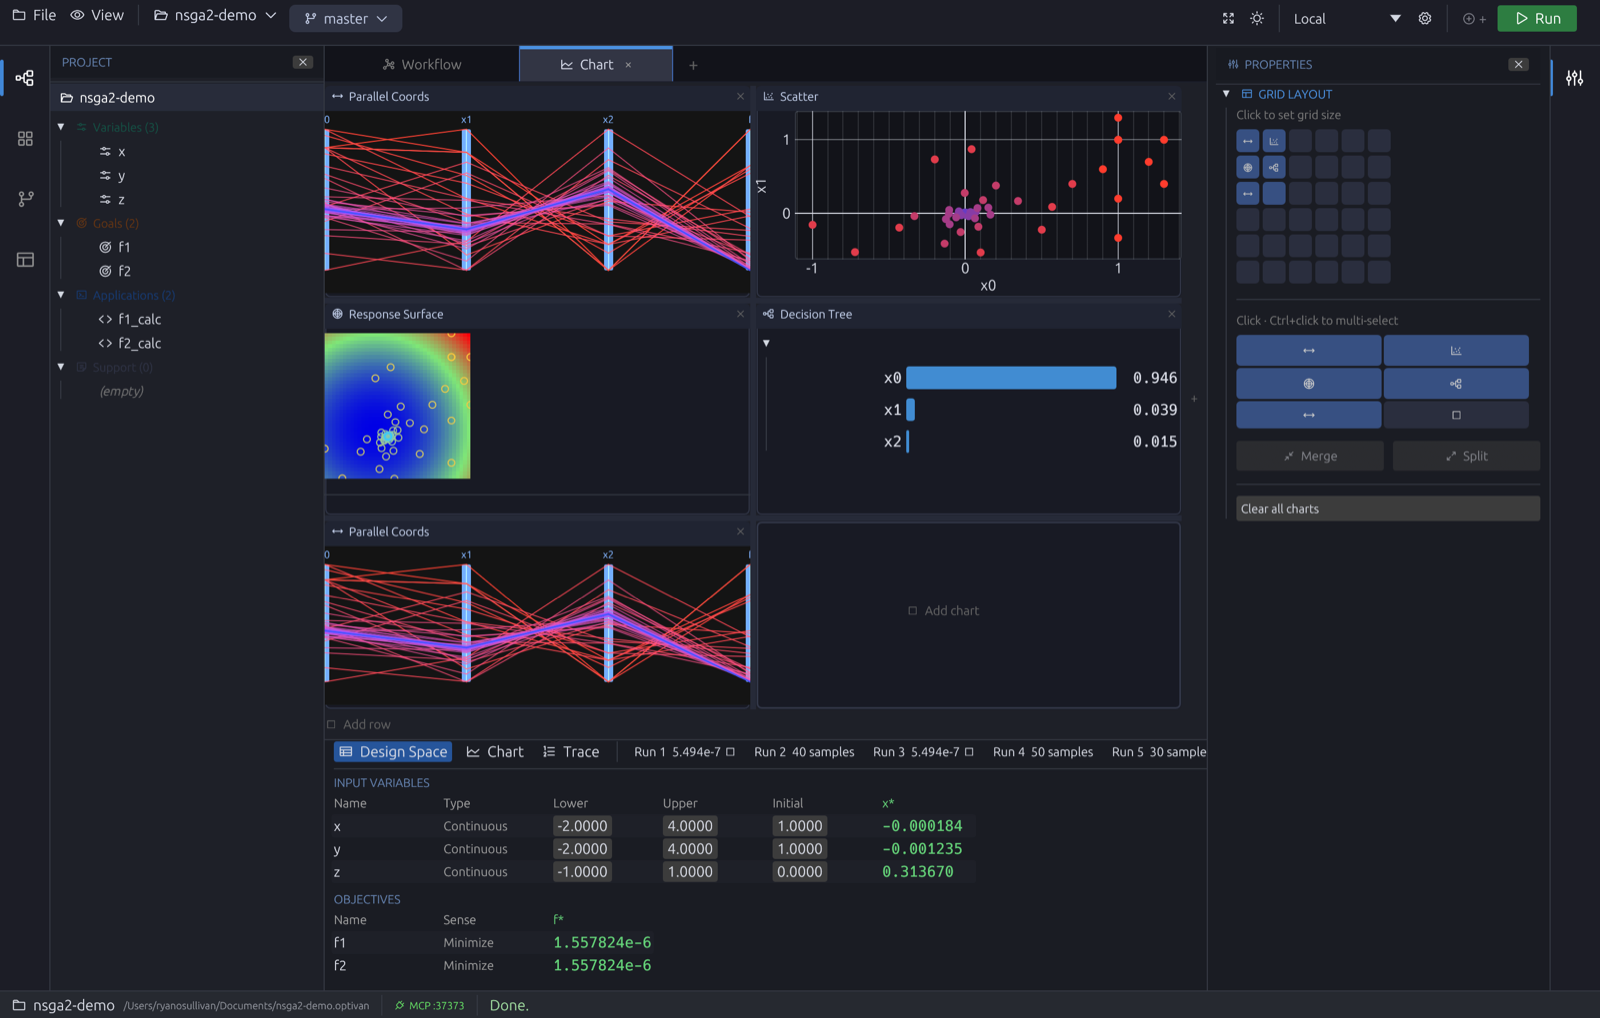
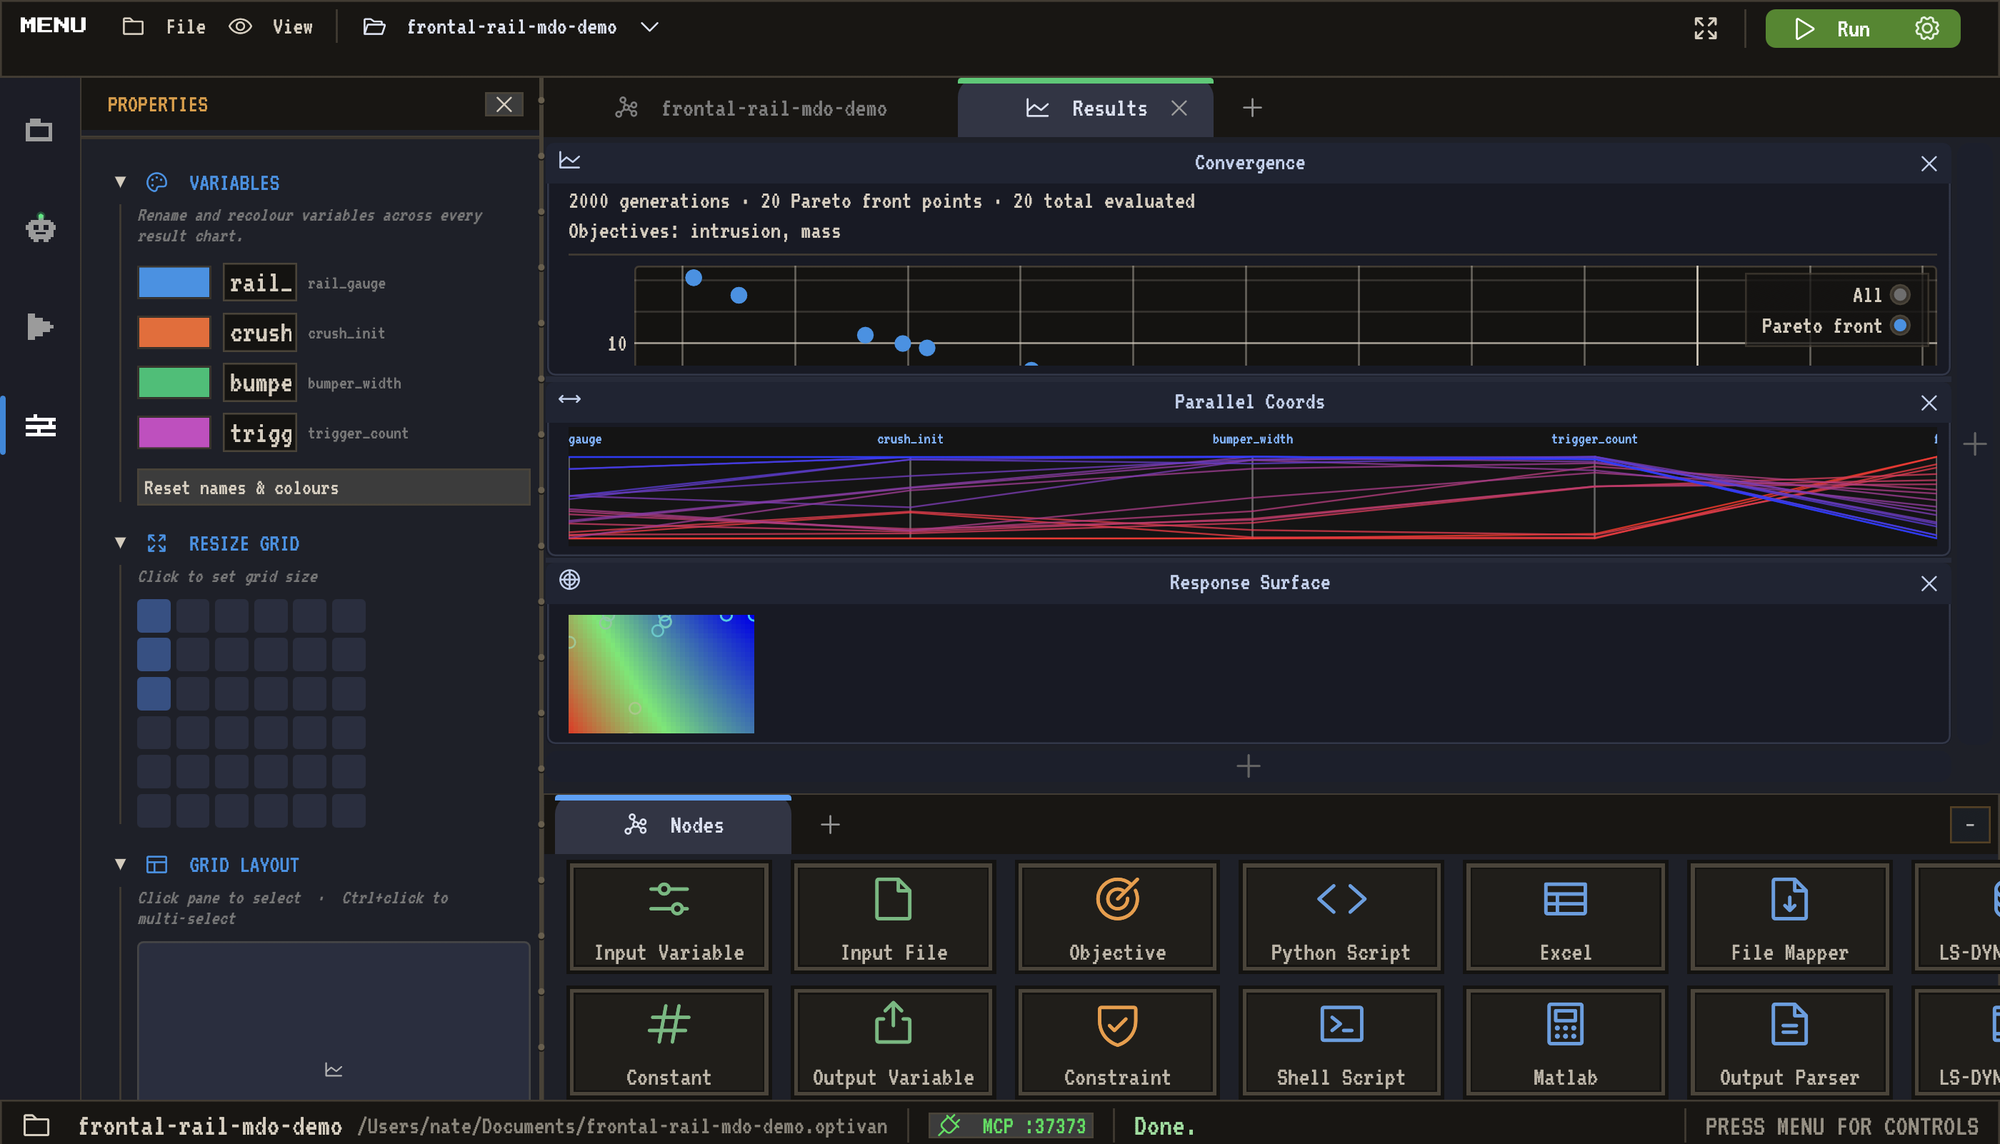
Deploy: agent-driven hero with Optivan globe + animated app loop, full-app screenshots

diff --git a/index.html b/index.html
@@ -26,8 +26,8 @@
       href="https://fonts.googleapis.com/css2?family=JetBrains+Mono:wght@400;500;700&family=Space+Grotesk:wght@400;500;600;700&display=swap"
       rel="stylesheet"
     />
-    <script type="module" crossorigin src="./assets/index-CSCSCUZo.js"></script>
-    <link rel="stylesheet" crossorigin href="./assets/index-BTGRAo-K.css">
+    <script type="module" crossorigin src="./assets/index-B0nn7DTy.js"></script>
+    <link rel="stylesheet" crossorigin href="./assets/index-CXPdNb7d.css">
   </head>
   <body>
     <div id="root"></div>

diff --git a/assets/index-CXPdNb7d.css b/assets/index-CXPdNb7d.css
@@ -1,0 +1,1 @@
+*,:before,:after{--tw-border-spacing-x: 0;--tw-border-spacing-y: 0;--tw-translate-x: 0;--tw-translate-y: 0;--tw-rotate: 0;--tw-skew-x: 0;--tw-skew-y: 0;--tw-scale-x: 1;--tw-scale-y: 1;--tw-pan-x: ;--tw-pan-y: ;--tw-pinch-zoom: ;--tw-scroll-snap-strictness: proximity;--tw-gradient-from-position: ;--tw-gradient-via-position: ;--tw-gradient-to-position: ;--tw-ordinal: ;--tw-slashed-zero: ;--tw-numeric-figure: ;--tw-numeric-spacing: ;--tw-numeric-fraction: ;--tw-ring-inset: ;--tw-ring-offset-width: 0px;--tw-ring-offset-color: #fff;--tw-ring-color: rgb(59 130 246 / .5);--tw-ring-offset-shadow: 0 0 #0000;--tw-ring-shadow: 0 0 #0000;--tw-shadow: 0 0 #0000;--tw-shadow-colored: 0 0 #0000;--tw-blur: ;--tw-brightness: ;--tw-contrast: ;--tw-grayscale: ;--tw-hue-rotate: ;--tw-invert: ;--tw-saturate: ;--tw-sepia: ;--tw-drop-shadow: ;--tw-backdrop-blur: ;--tw-backdrop-brightness: ;--tw-backdrop-contrast: ;--tw-backdrop-grayscale: ;--tw-backdrop-hue-rotate: ;--tw-backdrop-invert: ;--tw-backdrop-opacity: ;--tw-backdrop-saturate: ;--tw-backdrop-sepia: ;--tw-contain-size: ;--tw-contain-layout: ;--tw-contain-paint: ;--tw-contain-style: }::backdrop{--tw-border-spacing-x: 0;--tw-border-spacing-y: 0;--tw-translate-x: 0;--tw-translate-y: 0;--tw-rotate: 0;--tw-skew-x: 0;--tw-skew-y: 0;--tw-scale-x: 1;--tw-scale-y: 1;--tw-pan-x: ;--tw-pan-y: ;--tw-pinch-zoom: ;--tw-scroll-snap-strictness: proximity;--tw-gradient-from-position: ;--tw-gradient-via-position: ;--tw-gradient-to-position: ;--tw-ordinal: ;--tw-slashed-zero: ;--tw-numeric-figure: ;--tw-numeric-spacing: ;--tw-numeric-fraction: ;--tw-ring-inset: ;--tw-ring-offset-width: 0px;--tw-ring-offset-color: #fff;--tw-ring-color: rgb(59 130 246 / .5);--tw-ring-offset-shadow: 0 0 #0000;--tw-ring-shadow: 0 0 #0000;--tw-shadow: 0 0 #0000;--tw-shadow-colored: 0 0 #0000;--tw-blur: ;--tw-brightness: ;--tw-contrast: ;--tw-grayscale: ;--tw-hue-rotate: ;--tw-invert: ;--tw-saturate: ;--tw-sepia: ;--tw-drop-shadow: ;--tw-backdrop-blur: ;--tw-backdrop-brightness: ;--tw-backdrop-contrast: ;--tw-backdrop-grayscale: ;--tw-backdrop-hue-rotate: ;--tw-backdrop-invert: ;--tw-backdrop-opacity: ;--tw-backdrop-saturate: ;--tw-backdrop-sepia: ;--tw-contain-size: ;--tw-contain-layout: ;--tw-contain-paint: ;--tw-contain-style: }*,:before,:after{box-sizing:border-box;border-width:0;border-style:solid;border-color:#e5e7eb}:before,:after{--tw-content: ""}html,:host{line-height:1.5;-webkit-text-size-adjust:100%;-moz-tab-size:4;-o-tab-size:4;tab-size:4;font-family:Space Grotesk,ui-sans-serif,system-ui,sans-serif;font-feature-settings:normal;font-variation-settings:normal;-webkit-tap-highlight-color:transparent}body{margin:0;line-height:inherit}hr{height:0;color:inherit;border-top-width:1px}abbr:where([title]){-webkit-text-decoration:underline dotted;text-decoration:underline dotted}h1,h2,h3,h4,h5,h6{font-size:inherit;font-weight:inherit}a{color:inherit;text-decoration:inherit}b,strong{font-weight:bolder}code,kbd,samp,pre{font-family:JetBrains Mono,ui-monospace,SFMono-Regular,monospace;font-feature-settings:normal;font-variation-settings:normal;font-size:1em}small{font-size:80%}sub,sup{font-size:75%;line-height:0;position:relative;vertical-align:baseline}sub{bottom:-.25em}sup{top:-.5em}table{text-indent:0;border-color:inherit;border-collapse:collapse}button,input,optgroup,select,textarea{font-family:inherit;font-feature-settings:inherit;font-variation-settings:inherit;font-size:100%;font-weight:inherit;line-height:inherit;letter-spacing:inherit;color:inherit;margin:0;padding:0}button,select{text-transform:none}button,input:where([type=button]),input:where([type=reset]),input:where([type=submit]){-webkit-appearance:button;background-color:transparent;background-image:none}:-moz-focusring{outline:auto}:-moz-ui-invalid{box-shadow:none}progress{vertical-align:baseline}::-webkit-inner-spin-button,::-webkit-outer-spin-button{height:auto}[type=search]{-webkit-appearance:textfield;outline-offset:-2px}::-webkit-search-decoration{-webkit-appearance:none}::-webkit-file-upload-button{-webkit-appearance:button;font:inherit}summary{display:list-item}blockquote,dl,dd,h1,h2,h3,h4,h5,h6,hr,figure,p,pre{margin:0}fieldset{margin:0;padding:0}legend{padding:0}ol,ul,menu{list-style:none;margin:0;padding:0}dialog{padding:0}textarea{resize:vertical}input::-moz-placeholder,textarea::-moz-placeholder{opacity:1;color:#9ca3af}input::placeholder,textarea::placeholder{opacity:1;color:#9ca3af}button,[role=button]{cursor:pointer}:disabled{cursor:default}img,svg,video,canvas,audio,iframe,embed,object{display:block;vertical-align:middle}img,video{max-width:100%;height:auto}[hidden]:where(:not([hidden=until-found])){display:none}.label-mono{font-family:JetBrains Mono,ui-monospace,SFMono-Regular,monospace;font-size:11px;text-transform:uppercase;letter-spacing:.35em;color:#37e0d8cc}.panel-surface{border-radius:.5rem;border-width:1px;border-color:#1b2430cc;background-color:#0a0e1499;--tw-backdrop-blur: blur(4px);backdrop-filter:var(--tw-backdrop-blur) var(--tw-backdrop-brightness) var(--tw-backdrop-contrast) var(--tw-backdrop-grayscale) var(--tw-backdrop-hue-rotate) var(--tw-backdrop-invert) var(--tw-backdrop-opacity) var(--tw-backdrop-saturate) var(--tw-backdrop-sepia)}.pointer-events-none{pointer-events:none}.visible{visibility:visible}.collapse{visibility:collapse}.static{position:static}.fixed{position:fixed}.absolute{position:absolute}.relative{position:relative}.-inset-6{inset:-1.5rem}.inset-0{inset:0}.inset-\[12\%\]{inset:12%}.inset-x-0{left:0;right:0}.-bottom-24{bottom:-6rem}.-left-20{left:-5rem}.-right-16{right:-4rem}.-top-20{top:-5rem}.top-0{top:0}.top-9{top:2.25rem}.-z-10{z-index:-10}.z-30{z-index:30}.z-50{z-index:50}.mx-auto{margin-left:auto;margin-right:auto}.mb-12{margin-bottom:3rem}.mb-2{margin-bottom:.5rem}.mb-3{margin-bottom:.75rem}.mb-4{margin-bottom:1rem}.ml-3{margin-left:.75rem}.mt-1{margin-top:.25rem}.mt-12{margin-top:3rem}.mt-2{margin-top:.5rem}.mt-20{margin-top:5rem}.mt-3{margin-top:.75rem}.mt-4{margin-top:1rem}.mt-5{margin-top:1.25rem}.mt-6{margin-top:1.5rem}.mt-7{margin-top:1.75rem}.mt-9{margin-top:2.25rem}.block{display:block}.flex{display:flex}.inline-flex{display:inline-flex}.table{display:table}.grid{display:grid}.hidden{display:none}.aspect-square{aspect-ratio:1 / 1}.h-1\/3{height:33.333333%}.h-12{height:3rem}.h-2\.5{height:.625rem}.h-3{height:.75rem}.h-5{height:1.25rem}.h-6{height:1.5rem}.h-64{height:16rem}.h-full{height:100%}.h-px{height:1px}.min-h-screen{min-height:100vh}.w-12{width:3rem}.w-2\.5{width:.625rem}.w-20{width:5rem}.w-64{width:16rem}.w-\[230px\]{width:230px}.w-\[min\(46vw\,320px\)\]{width:min(46vw,320px)}.w-auto{width:auto}.w-full{width:100%}.max-w-2xl{max-width:42rem}.max-w-3xl{max-width:48rem}.max-w-7xl{max-width:80rem}.max-w-\[520px\]{max-width:520px}.max-w-\[640px\]{max-width:640px}.max-w-lg{max-width:32rem}.max-w-md{max-width:28rem}.max-w-xl{max-width:36rem}.max-w-xs{max-width:20rem}.flex-1{flex:1 1 0%}@keyframes scan{0%{transform:translateY(-100%)}to{transform:translateY(100%)}}.animate-scan{animation:scan 6s linear infinite}.resize{resize:both}.grid-cols-1{grid-template-columns:repeat(1,minmax(0,1fr))}.grid-cols-3{grid-template-columns:repeat(3,minmax(0,1fr))}.flex-col{flex-direction:column}.flex-wrap{flex-wrap:wrap}.place-items-center{place-items:center}.items-center{align-items:center}.justify-center{justify-content:center}.justify-between{justify-content:space-between}.gap-10{gap:2.5rem}.gap-2{gap:.5rem}.gap-24{gap:6rem}.gap-3{gap:.75rem}.gap-4{gap:1rem}.gap-6{gap:1.5rem}.gap-7{gap:1.75rem}.gap-px{gap:1px}.gap-x-8{-moz-column-gap:2rem;column-gap:2rem}.gap-y-3{row-gap:.75rem}.overflow-hidden{overflow:hidden}.whitespace-nowrap{white-space:nowrap}.rounded{border-radius:.25rem}.rounded-3xl{border-radius:1.5rem}.rounded-full{border-radius:9999px}.rounded-lg{border-radius:.5rem}.rounded-md{border-radius:.375rem}.rounded-xl{border-radius:.75rem}.border{border-width:1px}.border-b{border-bottom-width:1px}.border-t{border-top-width:1px}.border-dashed{border-style:dashed}.border-accent\/40{border-color:#37e0d866}.border-line{--tw-border-opacity: 1;border-color:rgb(27 36 48 / var(--tw-border-opacity, 1))}.border-line\/60{border-color:#1b243099}.border-line\/70{border-color:#1b2430b3}.border-line\/80{border-color:#1b2430cc}.border-white\/15{border-color:#ffffff26}.bg-\[\#070b11\]{--tw-bg-opacity: 1;background-color:rgb(7 11 17 / var(--tw-bg-opacity, 1))}.bg-accent{--tw-bg-opacity: 1;background-color:rgb(55 224 216 / var(--tw-bg-opacity, 1))}.bg-accent\/10{background-color:#37e0d81a}.bg-accent\/90{background-color:#37e0d8e6}.bg-black{--tw-bg-opacity: 1;background-color:rgb(0 0 0 / var(--tw-bg-opacity, 1))}.bg-black\/30{background-color:#0000004d}.bg-faint\/30{background-color:#5663734d}.bg-faint\/40{background-color:#56637366}.bg-faint\/50{background-color:#56637380}.bg-line\/60{background-color:#1b243099}.bg-panel\/60{background-color:#0a0e1499}.bg-panel\/70{background-color:#0a0e14b3}.bg-panel\/80{background-color:#0a0e14cc}.bg-panel2\/80{background-color:#0f141ccc}.bg-warm\/10{background-color:#f4a23b1a}.bg-gradient-to-b{background-image:linear-gradient(to bottom,var(--tw-gradient-stops))}.bg-gradient-to-r{background-image:linear-gradient(to right,var(--tw-gradient-stops))}.from-transparent{--tw-gradient-from: transparent var(--tw-gradient-from-position);--tw-gradient-to: rgb(0 0 0 / 0) var(--tw-gradient-to-position);--tw-gradient-stops: var(--tw-gradient-from), var(--tw-gradient-to)}.via-accent{--tw-gradient-to: rgb(55 224 216 / 0) var(--tw-gradient-to-position);--tw-gradient-stops: var(--tw-gradient-from), #37e0d8 var(--tw-gradient-via-position), var(--tw-gradient-to)}.via-accent\/0{--tw-gradient-to: rgb(55 224 216 / 0) var(--tw-gradient-to-position);--tw-gradient-stops: var(--tw-gradient-from), rgb(55 224 216 / 0) var(--tw-gradient-via-position), var(--tw-gradient-to)}.via-accent\/40{--tw-gradient-to: rgb(55 224 216 / 0) var(--tw-gradient-to-position);--tw-gradient-stops: var(--tw-gradient-from), rgb(55 224 216 / .4) var(--tw-gradient-via-position), var(--tw-gradient-to)}.to-transparent{--tw-gradient-to: transparent var(--tw-gradient-to-position)}.p-6{padding:1.5rem}.px-3{padding-left:.75rem;padding-right:.75rem}.px-4{padding-left:1rem;padding-right:1rem}.px-5{padding-left:1.25rem;padding-right:1.25rem}.px-6{padding-left:1.5rem;padding-right:1.5rem}.px-8{padding-left:2rem;padding-right:2rem}.py-1{padding-top:.25rem;padding-bottom:.25rem}.py-12{padding-top:3rem;padding-bottom:3rem}.py-14{padding-top:3.5rem;padding-bottom:3.5rem}.py-2{padding-top:.5rem;padding-bottom:.5rem}.py-2\.5{padding-top:.625rem;padding-bottom:.625rem}.py-20{padding-top:5rem;padding-bottom:5rem}.py-24{padding-top:6rem;padding-bottom:6rem}.py-3{padding-top:.75rem;padding-bottom:.75rem}.py-4{padding-top:1rem;padding-bottom:1rem}.py-5{padding-top:1.25rem;padding-bottom:1.25rem}.pb-16{padding-bottom:4rem}.pb-20{padding-bottom:5rem}.pt-28{padding-top:7rem}.text-center{text-align:center}.font-mono{font-family:JetBrains Mono,ui-monospace,SFMono-Regular,monospace}.text-2xl{font-size:1.5rem;line-height:2rem}.text-3xl{font-size:1.875rem;line-height:2.25rem}.text-\[10px\]{font-size:10px}.text-\[11px\]{font-size:11px}.text-\[9px\]{font-size:9px}.text-base{font-size:1rem;line-height:1.5rem}.text-lg{font-size:1.125rem;line-height:1.75rem}.text-sm{font-size:.875rem;line-height:1.25rem}.text-xs{font-size:.75rem;line-height:1rem}.font-bold{font-weight:700}.font-semibold{font-weight:600}.uppercase{text-transform:uppercase}.leading-relaxed{line-height:1.625}.tracking-tight{letter-spacing:-.025em}.tracking-widest{letter-spacing:.1em}.tracking-widest2{letter-spacing:.35em}.text-accent{--tw-text-opacity: 1;color:rgb(55 224 216 / var(--tw-text-opacity, 1))}.text-accent\/70{color:#37e0d8b3}.text-base{--tw-text-opacity: 1;color:rgb(5 7 10 / var(--tw-text-opacity, 1))}.text-black{--tw-text-opacity: 1;color:rgb(0 0 0 / var(--tw-text-opacity, 1))}.text-faint{--tw-text-opacity: 1;color:rgb(86 99 115 / var(--tw-text-opacity, 1))}.text-ink{--tw-text-opacity: 1;color:rgb(231 237 243 / var(--tw-text-opacity, 1))}.text-ink\/90{color:#e7edf3e6}.text-muted{--tw-text-opacity: 1;color:rgb(136 149 166 / var(--tw-text-opacity, 1))}.text-red-400{--tw-text-opacity: 1;color:rgb(248 113 113 / var(--tw-text-opacity, 1))}.underline{text-decoration-line:underline}.opacity-0{opacity:0}.opacity-100{opacity:1}.opacity-\[0\.04\]{opacity:.04}.shadow-2xl{--tw-shadow: 0 25px 50px -12px rgb(0 0 0 / .25);--tw-shadow-colored: 0 25px 50px -12px var(--tw-shadow-color);box-shadow:var(--tw-ring-offset-shadow, 0 0 #0000),var(--tw-ring-shadow, 0 0 #0000),var(--tw-shadow)}.shadow-glow{--tw-shadow: 0 0 40px -8px rgba(55, 224, 216, .45);--tw-shadow-colored: 0 0 40px -8px var(--tw-shadow-color);box-shadow:var(--tw-ring-offset-shadow, 0 0 #0000),var(--tw-ring-shadow, 0 0 #0000),var(--tw-shadow)}.outline-none{outline:2px solid transparent;outline-offset:2px}.ring{--tw-ring-offset-shadow: var(--tw-ring-inset) 0 0 0 var(--tw-ring-offset-width) var(--tw-ring-offset-color);--tw-ring-shadow: var(--tw-ring-inset) 0 0 0 calc(3px + var(--tw-ring-offset-width)) var(--tw-ring-color);box-shadow:var(--tw-ring-offset-shadow),var(--tw-ring-shadow),var(--tw-shadow, 0 0 #0000)}.blur{--tw-blur: blur(8px);filter:var(--tw-blur) var(--tw-brightness) var(--tw-contrast) var(--tw-grayscale) var(--tw-hue-rotate) var(--tw-invert) var(--tw-saturate) var(--tw-sepia) var(--tw-drop-shadow)}.blur-3xl{--tw-blur: blur(64px);filter:var(--tw-blur) var(--tw-brightness) var(--tw-contrast) var(--tw-grayscale) var(--tw-hue-rotate) var(--tw-invert) var(--tw-saturate) var(--tw-sepia) var(--tw-drop-shadow)}.drop-shadow{--tw-drop-shadow: drop-shadow(0 1px 2px rgb(0 0 0 / .1)) drop-shadow(0 1px 1px rgb(0 0 0 / .06));filter:var(--tw-blur) var(--tw-brightness) var(--tw-contrast) var(--tw-grayscale) var(--tw-hue-rotate) var(--tw-invert) var(--tw-saturate) var(--tw-sepia) var(--tw-drop-shadow)}.drop-shadow-\[0_12px_32px_rgba\(0\,0\,0\,0\.55\)\]{--tw-drop-shadow: drop-shadow(0 12px 32px rgba(0,0,0,.55));filter:var(--tw-blur) var(--tw-brightness) var(--tw-contrast) var(--tw-grayscale) var(--tw-hue-rotate) var(--tw-invert) var(--tw-saturate) var(--tw-sepia) var(--tw-drop-shadow)}.filter{filter:var(--tw-blur) var(--tw-brightness) var(--tw-contrast) var(--tw-grayscale) var(--tw-hue-rotate) var(--tw-invert) var(--tw-saturate) var(--tw-sepia) var(--tw-drop-shadow)}.backdrop-blur-sm{--tw-backdrop-blur: blur(4px);backdrop-filter:var(--tw-backdrop-blur) var(--tw-backdrop-brightness) var(--tw-backdrop-contrast) var(--tw-backdrop-grayscale) var(--tw-backdrop-hue-rotate) var(--tw-backdrop-invert) var(--tw-backdrop-opacity) var(--tw-backdrop-saturate) var(--tw-backdrop-sepia)}.transition{transition-property:color,background-color,border-color,text-decoration-color,fill,stroke,opacity,box-shadow,transform,filter,backdrop-filter;transition-timing-function:cubic-bezier(.4,0,.2,1);transition-duration:.15s}.transition-all{transition-property:all;transition-timing-function:cubic-bezier(.4,0,.2,1);transition-duration:.15s}.transition-colors{transition-property:color,background-color,border-color,text-decoration-color,fill,stroke;transition-timing-function:cubic-bezier(.4,0,.2,1);transition-duration:.15s}.transition-opacity{transition-property:opacity;transition-timing-function:cubic-bezier(.4,0,.2,1);transition-duration:.15s}.transition-transform{transition-property:transform;transition-timing-function:cubic-bezier(.4,0,.2,1);transition-duration:.15s}.duration-300{transition-duration:.3s}.duration-500{transition-duration:.5s}.bg-tech-grid{background-image:linear-gradient(var(--grid-line) 1px,transparent 1px),linear-gradient(90deg,var(--grid-line) 1px,transparent 1px);background-size:var(--grid-size) var(--grid-size)}.bg-cinematic{background:radial-gradient(70% 50% at 70% 12%,rgba(var(--accent-rgb),.1) 0%,transparent 60%),radial-gradient(90% 70% at 50% 120%,rgba(244,162,59,.06) 0%,transparent 55%),radial-gradient(120% 120% at 50% 0%,transparent 55%,rgba(0,0,0,.7) 100%)}:root{--base: #05070a;--panel: #0a0e14;--accent: #37e0d8;--accent-rgb: 55, 224, 216;--warm: #f4a23b;--grid-line: rgba(120, 160, 190, .06);--grid-size: 46px}html,body,#root{height:100%}body{margin:0;background-color:var(--base);color:#e7edf3;font-family:Space Grotesk,system-ui,sans-serif;-webkit-font-smoothing:antialiased;text-rendering:optimizeLegibility;overflow-x:hidden}:focus-visible{outline:2px solid var(--accent);outline-offset:3px}@media (prefers-reduced-motion: reduce){*,*:before,*:after{animation-duration:.001ms!important;animation-iteration-count:1!important;transition-duration:.001ms!important}}.hover\:border-accent\/70:hover{border-color:#37e0d8b3}.hover\:bg-accent:hover{--tw-bg-opacity: 1;background-color:rgb(55 224 216 / var(--tw-bg-opacity, 1))}.hover\:bg-accent\/10:hover{background-color:#37e0d81a}.hover\:bg-panel2:hover{--tw-bg-opacity: 1;background-color:rgb(15 20 28 / var(--tw-bg-opacity, 1))}.hover\:text-accent:hover{--tw-text-opacity: 1;color:rgb(55 224 216 / var(--tw-text-opacity, 1))}.hover\:text-ink:hover{--tw-text-opacity: 1;color:rgb(231 237 243 / var(--tw-text-opacity, 1))}.hover\:shadow-glow:hover{--tw-shadow: 0 0 40px -8px rgba(55, 224, 216, .45);--tw-shadow-colored: 0 0 40px -8px var(--tw-shadow-color);box-shadow:var(--tw-ring-offset-shadow, 0 0 #0000),var(--tw-ring-shadow, 0 0 #0000),var(--tw-shadow)}.hover\:shadow-glow-sm:hover{--tw-shadow: 0 0 18px -4px rgba(55, 224, 216, .5);--tw-shadow-colored: 0 0 18px -4px var(--tw-shadow-color);box-shadow:var(--tw-ring-offset-shadow, 0 0 #0000),var(--tw-ring-shadow, 0 0 #0000),var(--tw-shadow)}.hover\:brightness-110:hover{--tw-brightness: brightness(1.1);filter:var(--tw-blur) var(--tw-brightness) var(--tw-contrast) var(--tw-grayscale) var(--tw-hue-rotate) var(--tw-invert) var(--tw-saturate) var(--tw-sepia) var(--tw-drop-shadow)}.focus\:border-accent:focus{--tw-border-opacity: 1;border-color:rgb(55 224 216 / var(--tw-border-opacity, 1))}.focus-visible\:outline-accent:focus-visible{outline-color:#37e0d8}.group:hover .group-hover\:translate-x-1{--tw-translate-x: .25rem;transform:translate(var(--tw-translate-x),var(--tw-translate-y)) rotate(var(--tw-rotate)) skew(var(--tw-skew-x)) skewY(var(--tw-skew-y)) scaleX(var(--tw-scale-x)) scaleY(var(--tw-scale-y))}.group:hover .group-hover\:bg-accent\/20{background-color:#37e0d833}.group:hover .group-hover\:via-accent\/70{--tw-gradient-to: rgb(55 224 216 / 0) var(--tw-gradient-to-position);--tw-gradient-stops: var(--tw-gradient-from), rgb(55 224 216 / .7) var(--tw-gradient-via-position), var(--tw-gradient-to)}@media (min-width: 640px){.sm\:w-\[300px\]{width:300px}.sm\:grid-cols-2{grid-template-columns:repeat(2,minmax(0,1fr))}.sm\:flex-row{flex-direction:row}.sm\:px-10{padding-left:2.5rem;padding-right:2.5rem}.sm\:px-16{padding-left:4rem;padding-right:4rem}.sm\:py-20{padding-top:5rem;padding-bottom:5rem}.sm\:text-3xl{font-size:1.875rem;line-height:2.25rem}.sm\:text-4xl{font-size:2.25rem;line-height:2.5rem}.sm\:text-lg{font-size:1.125rem;line-height:1.75rem}}@media (min-width: 768px){.md\:flex{display:flex}.md\:flex-row{flex-direction:row}.md\:items-start{align-items:flex-start}.md\:justify-between{justify-content:space-between}}@media (min-width: 1024px){.lg\:grid-cols-4{grid-template-columns:repeat(4,minmax(0,1fr))}.lg\:flex-row{flex-direction:row}.lg\:flex-row-reverse{flex-direction:row-reverse}.lg\:gap-14{gap:3.5rem}.lg\:gap-6{gap:1.5rem}.lg\:self-start{align-self:flex-start}.lg\:pt-20{padding-top:5rem}.lg\:pt-24{padding-top:6rem}}